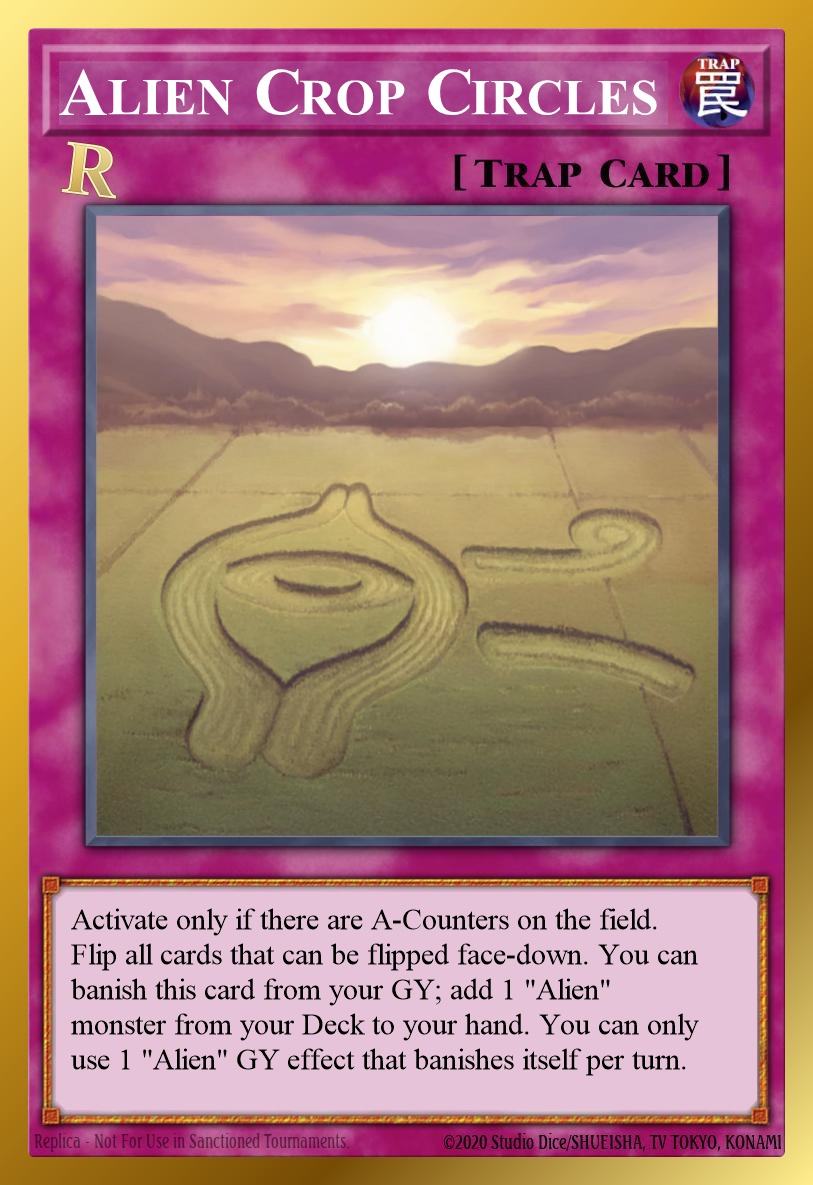
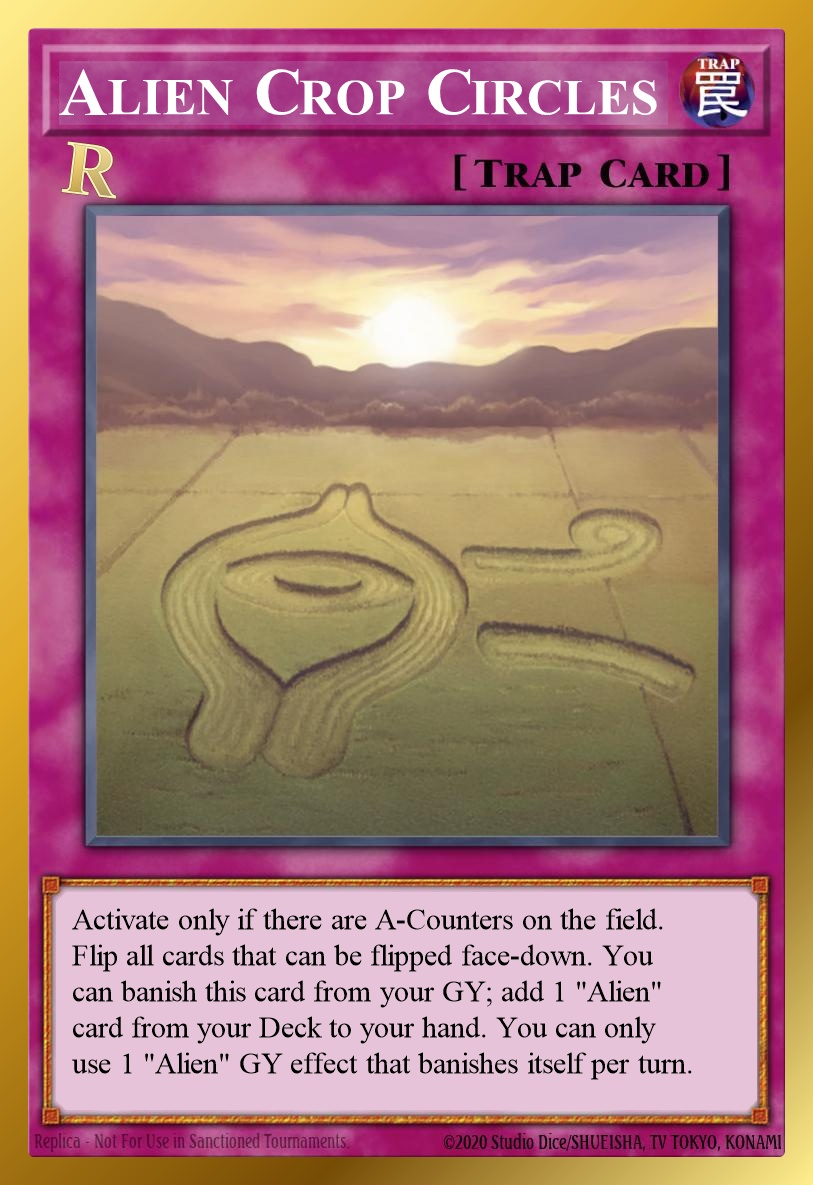
bugfix Alien Crop Circles

Changed region(s): [[0.0923, 0.7494, 0.861, 0.9055]]

diff --git a/Redux/scripts/build-cards-cdb.js b/Redux/scripts/build-cards-cdb.js
@@ -199,9 +199,9 @@ module.exports = function buildCardsDb({ reduxRoot }) {
     .prepare("UPDATE texts SET name = ?, desc = ?, str1 = ?, str2 = ? WHERE id = ?")
     .run(
       "Alien Crop Circles",
-      'Activate only if there are A-Counters on the field. Flip all cards that can be flipped face-down. You can banish this card from your GY; add 1 "Alien" monster from your Deck to your hand. You can only use 1 "Alien" GY effect that banishes itself per turn.',
+      'Activate only if there are A-Counters on the field. Flip all cards that can be flipped face-down. You can banish this card from your GY; add 1 "Alien" card from your Deck to your hand. You can only use 1 "Alien" GY effect that banishes itself per turn.',
       "Flip all cards that can be flipped face-down",
-      'Add 1 "Alien" monster from your Deck to your hand',
+      'Add 1 "Alien" card from your Deck to your hand',
       24082387,
     );
   const massHypnosisTextResult = db

diff --git a/README.md b/README.md
@@ -78,7 +78,7 @@ Redux Limits: `0` = forbidden; `1` = limited; `2` = semi-limited; `3` = unlimite
 | `3` [Alien Code A Ancient Ruins](https://yugioh.fandom.com/wiki/Code_A_Ancient_Ruins) | 🔄 Counts as Alien; hard once per turn; summons Reptile from hand/GY |
 | `3` [Alien Cosmic Horror Gangi'el](https://yugioh.fandom.com/wiki/Cosmic_Horror_Gangi%27el) | 🔄 Counts as Alien; hand summon with exactly 3 banished Aliens; hard once per turn bounce; shares high-level Alien control limit |
 | `3` [Cosmic Fortress Gol'gar](https://yugioh.fandom.com/wiki/Cosmic_Fortress_Gol%27gar) | 🔄 1 Reptile + 1+ non-Tuner monsters |
-| `1` [Alien Crop Circles](https://yugioh.fandom.com/wiki/Crop_Circles) | 🔄 Counts as Alien; flips cards face-down; shared Alien GY effect searches monster |
+| `1` [Alien Crop Circles](https://yugioh.fandom.com/wiki/Crop_Circles) | 🔄 Counts as Alien; flips cards face-down; shared Alien GY effect searches card |
 | `3` [Alien Dog](https://yugioh.fandom.com/wiki/Alien_Dog) | ⬆ Hand special summon while controlling Alien; once per turn 1 A-Counter on non-Alien card; Tuner |
 | `3` [Alien Grey](https://yugioh.fandom.com/wiki/Alien_Grey) | 🔄 Summon/flip trigger draws; shared Alien GY effect sends Spell/Trap from Deck |
 | `3` [Alien Hunter](https://yugioh.fandom.com/wiki/Alien_Hunter) | 🔄 Main Phase GY summon by bottom-decking Alien from hand and banishing 2 GY cards; hard once per turn; can draw and give A-Counter on non-Alien card |
